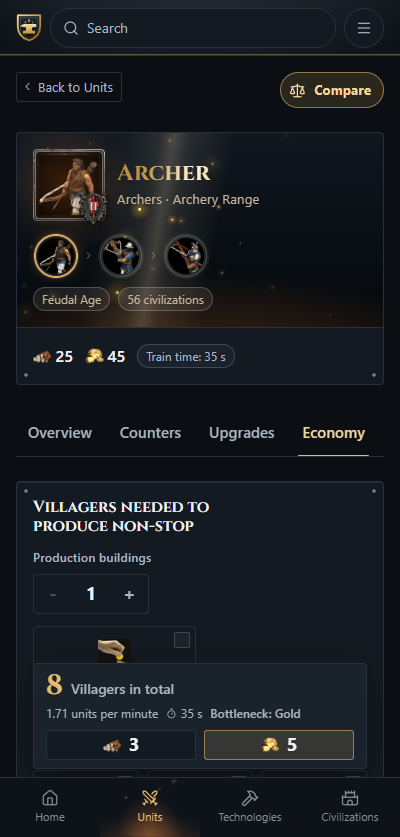
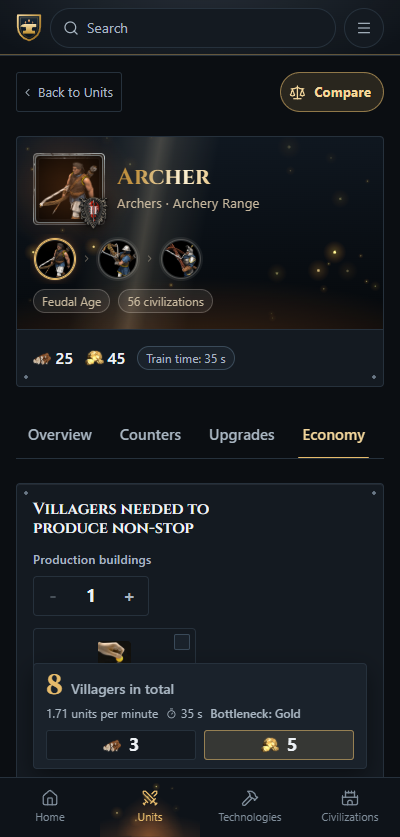
feat: give every control the shared control height

diff --git a/src/react/styles/forge.css b/src/react/styles/forge.css
@@ -679,7 +679,7 @@
     align-items: center;
     gap: var(--space-3);
     width: 100%;
-    min-height: 3.25rem;
+    min-height: var(--control-height);
     padding: 0 var(--space-3);
     font-size: 0.9375rem;
     color: var(--text);
@@ -736,8 +736,8 @@
 
 /* The picture of the current choice, at the scale of the field. */
 .select-field__box > .icon {
-    width: 2rem;
-    height: 2rem;
+    width: 1.75rem;
+    height: 1.75rem;
     border-radius: 999px;
     box-shadow: 0 0 0 1px color-mix(in srgb, var(--gold) 55%, transparent);
 }
@@ -787,9 +787,10 @@
 }
 
 /* Several choices: the tags wrap, and a click anywhere between them reaches for the filter. */
+/* One row of tags stands exactly one control tall, so the field lines up with every other. */
 .tag-picker {
     gap: var(--space-2);
-    padding: var(--space-2) var(--space-3) var(--space-2) var(--space-2);
+    padding: 3px var(--space-3) 3px 3px;
     cursor: text;
 }
 
@@ -806,6 +807,7 @@
 .tag-picker .select-field__input {
     flex: 1 1 8rem;
     min-width: 8rem;
+    min-height: 2rem;
     padding: 0 var(--space-1);
 }
 
@@ -824,8 +826,8 @@
 }
 
 .tag-picker__tag .icon {
-    width: 2rem;
-    height: 2rem;
+    width: 1.5rem;
+    height: 1.5rem;
     border-radius: 999px;
     box-shadow: 0 0 0 1px color-mix(in srgb, var(--gold) 55%, transparent);
 }
@@ -859,7 +861,8 @@
     align-items: center;
     gap: var(--space-1);
     align-self: flex-start;
-    padding: var(--space-1) var(--space-2) var(--space-1) var(--space-1);
+    min-height: var(--control-height);
+    padding: 0 var(--space-2) 0 var(--space-1);
     font-size: 0.8125rem;
     color: var(--text-muted);
     border: 1px solid var(--border);
@@ -942,7 +945,7 @@
     display: inline-flex;
     align-items: center;
     gap: var(--space-1);
-    padding: 2px;
+    padding: 1px;
     font-size: 0.6875rem;
     letter-spacing: 0.04em;
     text-transform: uppercase;

diff --git a/src/react/styles/components.css b/src/react/styles/components.css
@@ -237,8 +237,10 @@
     border-radius: 999px;
 }
 
+/* The track adds its padding and border, so the options fill it to the control height. */
 .segmented__option {
-    padding: var(--space-1) var(--space-3);
+    min-height: 2rem;
+    padding: 0 var(--space-3);
     border-radius: 999px;
     font-size: 0.8125rem;
     font-weight: 600;
@@ -360,7 +362,7 @@
 .input {
     width: 100%;
     min-height: var(--control-height);
-    padding: var(--space-2) var(--space-3);
+    padding: 0 var(--space-3);
     background: var(--surface-2);
     border: 1px solid var(--border);
     border-radius: var(--radius);
@@ -607,7 +609,8 @@
     display: inline-flex;
     align-items: center;
     gap: var(--space-2);
-    padding: var(--space-2) var(--space-3);
+    min-height: var(--control-height);
+    padding: 0 var(--space-3);
     border-radius: 999px;
     border: 1px solid var(--border);
     background: var(--surface);
@@ -1635,10 +1638,6 @@ details[open] > summary::after {
     flex: 0 1 16rem;
 }
 
-.planner__fields .select-field__box {
-    min-height: var(--control-height);
-}
-
 /* The planner is square-cornered throughout, so its chips and stepper match the tiles. */
 .planner .chip,
 .planner .stepper {
@@ -1800,7 +1799,7 @@ details[open] > summary::after {
     display: inline-flex;
     align-items: center;
     gap: var(--space-2);
-    min-height: 2.25rem;
+    min-height: var(--control-height);
     padding: 0 var(--space-3) 0 var(--space-2);
     font-size: 0.8125rem;
     font-weight: 700;
